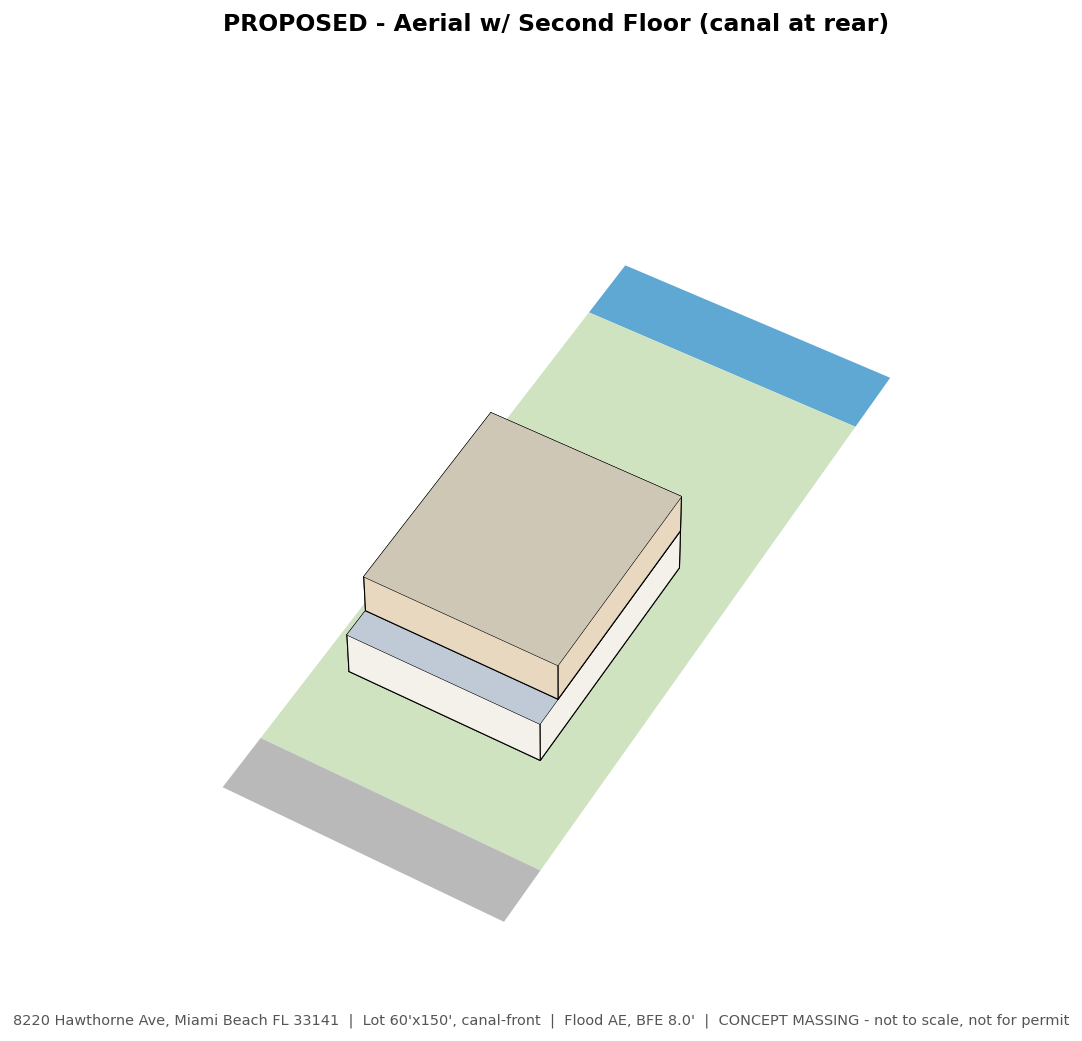
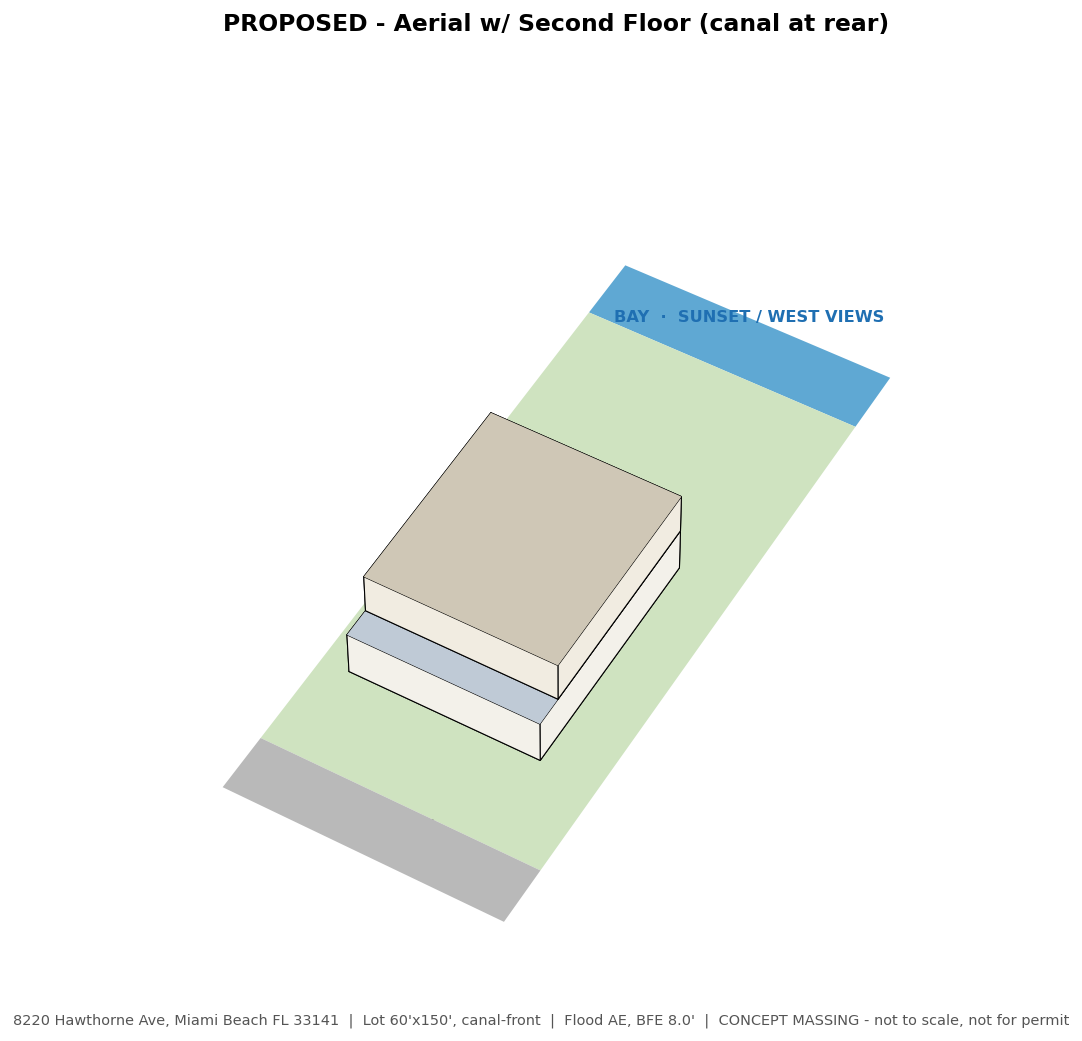
Integrate listing photos + re-orient massing toward bay views
- docs/07: site photos index (links only, MLS-copyright respected) + findings
- Confirmed: 3bd+den/3ba, flat tile roof, open-bay frontage, west sunset
  views, ~$4.1M est, two-story neighbor precedent
- Re-oriented 3D massing: second-floor primary terrace faces the bay/west;
  added orientation labels to renders and interactive model

https://claude.ai/code/session_016iAakNHpeTq7zdMe5HrUbF

diff --git a/renders/interactive-3d-model.html b/renders/interactive-3d-model.html
@@ -31,7 +31,7 @@
   <p id="state"><b>Showing: PROPOSED (two story)</b></p>
   <p>Conceptual massing only — not to scale, not a permit document.</p>
 </div>
-<div id="note">Built from the boundary survey. Wood-tone box = proposed stepped-back second floor.</div>
+<div id="note">Street side = Hawthorne Ave (front).  Far side = open bay / west sunset views.  Wood-tone deck on the bay side = proposed second-floor primary-suite terrace.</div>
 
 <script type="importmap">
 { "imports": {
@@ -103,13 +103,19 @@ addBox(HX0,HX1, HY0,HY1, FF, FF+S1, 0xf3f1ea);
 
 // SECOND STORY group (toggle)
 const second=new THREE.Group();
-const s2=addBox(HX0,HX1, S2Y0,HY1, FF+S1, FF+S1+S2, 0xe3cfa8);
+const z1=FF+S1, z2=FF+S1+S2;
+const s2=addBox(HX0,HX1, S2Y0,HY1, z1, z2, 0xf1ece1);            // white stucco mass
 second.add(s2);
-// rooftop terrace railing over stepped-back portion
-const terr=addBox(HX0,HX1, HY0,S2Y0, FF+S1, FF+S1+0.4, 0xb9c4d2);
+const terr=addBox(HX0,HX1, HY0,S2Y0, z1, z1+0.4, 0xb9c4d2);     // front rooftop over step
 second.add(terr);
-// re-parent: remove from scene, group manages visibility
-scene.remove(s2); scene.remove(terr); scene.add(second);
+// PRIMARY-SUITE TERRACE facing the BAY (water side) — the key view move
+const baydeck=addBox(HX0+3,HX1-3, HY1,HY1+9, z1, z1+0.6, 0xc8a978);
+second.add(baydeck);
+const rail=addBox(HX0+3,HX1-3, HY1+8.5,HY1+9, z1, z1+3.4, 0x9fc3dd, {rough:0.1});
+rail.material.transparent=true; rail.material.opacity=0.35;
+second.add(rail);
+// re-parent into the group
+[s2,terr,baydeck,rail].forEach(m=>scene.remove(m)); scene.add(second);
 
 // first-story flat roof (only visible when second floor is OFF)
 const roof1=addBox(HX0,HX1, HY0,HY1, FF+S1, FF+S1+0.4, 0xcfc7b6);

diff --git a/tools/render_massing.py b/tools/render_massing.py
@@ -72,16 +72,17 @@ def build(ax, proposed: bool):
     # First story
     box(ax, HX0, HX1, HY0, HY1, FF, FF+STORY1_H, "#f3f1ea", 1.0)
     # Flat roof slab for first story (only where no second floor)
+    z1, z2 = FF+STORY1_H, FF+STORY1_H+STORY2_H
     if proposed:
-        # Second story (stepped back), wood-accent tone
-        box(ax, S2X0, S2X1, S2Y0, S2Y1, FF+STORY1_H, FF+STORY1_H+STORY2_H,
-            "#e7d8bf", 1.0)
-        # roof slab over second story
-        flat(ax, S2X0, S2X1, S2Y0, S2Y1, FF+STORY1_H+STORY2_H, "#cfc7b6")
-        # front terrace on top of stepped-back portion (rooftop over step)
-        flat(ax, HX0, HX1, HY0, S2Y0, FF+STORY1_H, "#bfcad6")
+        # Second story (stepped back from street), white + wood-accent tone
+        box(ax, S2X0, S2X1, S2Y0, S2Y1, z1, z2, "#f1ece1", 1.0)
+        flat(ax, S2X0, S2X1, S2Y0, S2Y1, z2, "#cfc7b6")          # flat roof slab
+        flat(ax, HX0, HX1, HY0, S2Y0, z1, "#bfcad6")             # front rooftop over step
+        # PRIMARY-SUITE TERRACE facing the BAY (water/west, rear) — the key view move
+        box(ax, HX0+3, HX1-3, HY1, HY1+9, z1, z1+0.6, "#c8a978") # cantilevered deck
+        box(ax, HX0+3, HX1-3, HY1+8.5, HY1+9, z1, z1+3.4, "#9fc3dd", 0.30)  # glass rail
     else:
-        flat(ax, HX0, HX1, HY0, HY1, FF+STORY1_H, "#cfc7b6")
+        flat(ax, HX0, HX1, HY0, HY1, z1, "#cfc7b6")
 
 
 def style(ax, title):
@@ -89,6 +90,9 @@ def style(ax, title):
     ax.set_xlim(0, LOT_W); ax.set_ylim(-16, LOT_D+18); ax.set_zlim(0, 60)
     ax.set_axis_off()
     ax.set_title(title, fontsize=13, fontweight="bold", pad=2)
+    ax.text(LOT_W/2, -10, 2, "HAWTHORNE AVE", color="#444", fontsize=8, ha="center")
+    ax.text(LOT_W/2, LOT_D+14, 3, "BAY  ·  SUNSET / WEST VIEWS",
+            color="#1f6fb2", fontsize=9, fontweight="bold", ha="center")
 
 
 def render(proposed, elev, azim, fname, title):

diff --git a/docs/07-site-photos.md b/docs/07-site-photos.md
@@ -1,0 +1,53 @@
+# 07 — Site Photos & Visual Findings
+
+Source: public listing on **luxeknows.com** (MLS A11896199). The photos are
+**© Miami MLS** — links only are stored here (not the image files) to respect
+copyright. View them at the listing or the CloudFront links below.
+
+- Listing: https://luxeknows.com/properties/8220-hawthorne-ave-miami-beach-fl-33141-cb147609bef68c9c152dc72afc90f1be
+- Photo CDN base: `https://dlajgvw9htjpb.cloudfront.net/cms/b986753f-9283-49d4-8834-27ce98e77b22/A11896199/`
+
+## What the photos confirm (drives the design)
+
+**The house today (post-remodel):**
+- **Single-story, white stucco, tropical/MiMo-modern**, recently and cleanly remodeled.
+- **Flat / low-slope roof** with thin dark fascia (small low-tile hip over the
+  center entry). ✅ **A flat roof is the easiest, cheapest starting point to build *up*.**
+- Long, **low horizontal massing** with a recessed central entry behind a screen
+  of thin vertical columns; large **black-framed (impact) windows**; flanking wings.
+- **Wide paver circular driveway**, white perimeter walls, lush mature landscaping.
+- Interior: open living/dining, **French white oak floors**, modern kitchen,
+  barn-door details — high-end finish level.
+
+**The setting:**
+- **Direct open-bay frontage** — the rear yard sits on a wide stretch of the
+  intracoastal/Biscayne Bay (not a narrow canal), with the **Atlantic Ocean and
+  Miami Beach skyline visible across the water.**
+- **Unobstructed west-facing sunset views over the bay.**
+- **Infinity-edge pool + travertine/wood deck** at the water's edge with a seawall;
+  room for **boating / dock**.
+
+**The street context:**
+- The **immediate left neighbor is a two-story modern home** (standing-seam metal
+  roof) — i.e., **a two-story precedent already exists right next door**, which
+  helps with neighborhood-character and design-review arguments.
+
+## Design implications (why a second floor makes sense here)
+
+1. **Build up for the view.** The big upside at ground level is hidden by the
+   single story. A second floor — primary suite + a **west-facing bay terrace** —
+   turns "nice waterfront" into "elevated sunset views over the bay/ocean." This
+   is the highest-value move and is reflected in the updated 3D massing
+   ([../renders](../renders/)).
+2. **Flat roof = favorable structure.** Building over an existing flat roof avoids
+   demolishing a complex pitched roof; still requires the engineer to verify the
+   CBS walls/foundation can carry the new load (see [03](03-feasibility-second-floor.md)).
+3. **Keep the horizontal base, set the box back.** Preserve the low, wide
+   street facade; place the second story over the central core, **stepped back
+   from the street** and **opened up toward the water** at the rear.
+4. **Match the existing palette** in any AI render: white stucco, black window
+   frames, thin flat-roof fascia, wood/stone accents, vertical column screen.
+
+> ⚠ The listing shows the home was **remodeled and is currently leased**
+> (~$15k/mo); records vary between 3bd/2ba and "3 + den / 3 ba." Confirm the
+> **as-built** condition and any prior structural upgrades on site before design.

diff --git a/docs/01-property-analysis.md b/docs/01-property-analysis.md
@@ -18,6 +18,25 @@ lot**, which adds waterfront setback rules, seawall/dock considerations, and a
 firm flood mandate (Zone AE, BFE 8.0′). These materially affect the second-floor
 design — see [docs/02](docs/02-zoning-permits-miami.md) and [docs/03](docs/03-feasibility-second-floor.md).
 
+## ✅ Confirmed from the listing + photos (MLS A11896199 / luxeknows.com)
+
+| Item | Value |
+|------|-------|
+| Configuration | **3 bed + den / 3 bath**, ~2,874 sq ft (recently remodeled) |
+| Roof | **Flat / low-slope tile** — favorable for building up |
+| Style | White stucco tropical/MiMo-modern, black impact windows, column screen entry |
+| Water | **Direct open-bay access** (intracoastal/Biscayne Bay), boating, seawall |
+| Views | **Unobstructed west-facing sunset views over the bay**, ocean/skyline beyond |
+| Pool | Infinity-edge pool + travertine/wood deck at water's edge |
+| Parking | 2 spaces, **circular paver driveway** |
+| Est. value | **~$4.1M** (Zillow/Trulia, 2026); currently **leased ~$15k/mo** |
+| Neighbor | **Two-story modern home immediately to the left** (two-story precedent) |
+
+See full visual findings + design implications in [docs/07](docs/07-site-photos.md).
+**Headline:** the view is the prize — a second floor with a **west-facing bay
+terrace** is the highest-value move, and the **flat roof** makes building up
+structurally easier.
+
 ## What public records show
 
 8220 Hawthorne Ave, Miami Beach, FL 33141:

diff --git a/README.md b/README.md
@@ -51,6 +51,8 @@ static PNGs. **Concept massing only — not photoreal, not for permit.** See
    and a repeatable workflow to generate your own concept renderings.
 6. **[docs/06 — Budget, Timeline & Process](docs/06-budget-timeline-process.md)** —
    ballpark costs, schedule, and the step order so nothing stalls.
+7. **[docs/07 — Site Photos & Findings](docs/07-site-photos.md)** — what the actual
+   listing photos show and how it shapes the design (build up for the bay views).
 
 ## Status checklist
 
